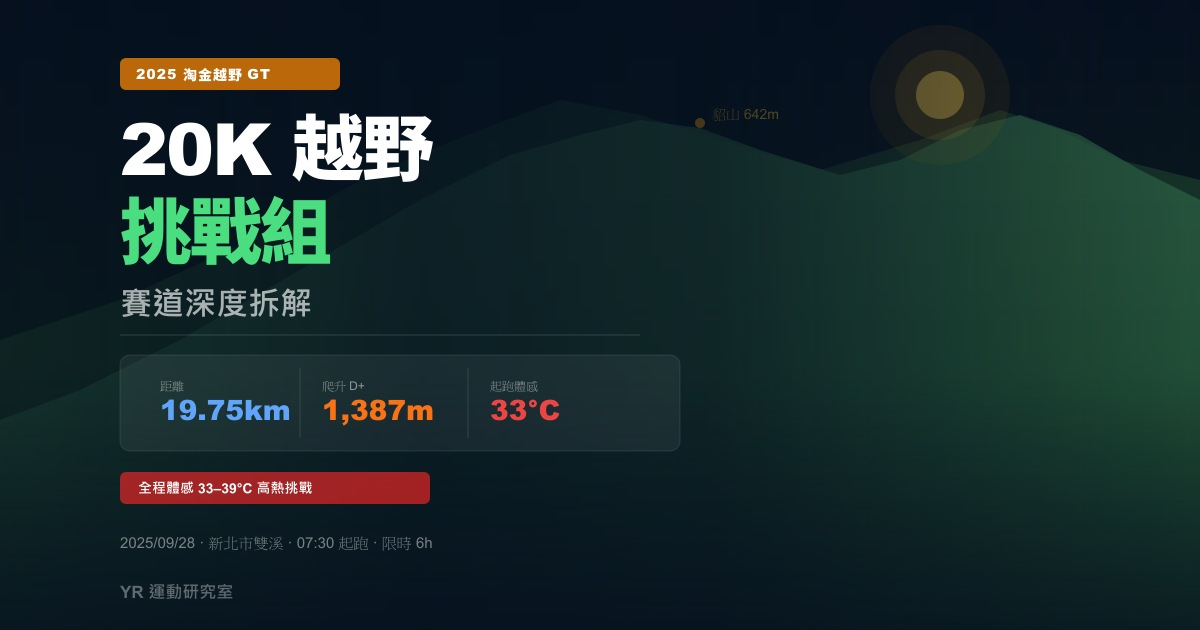
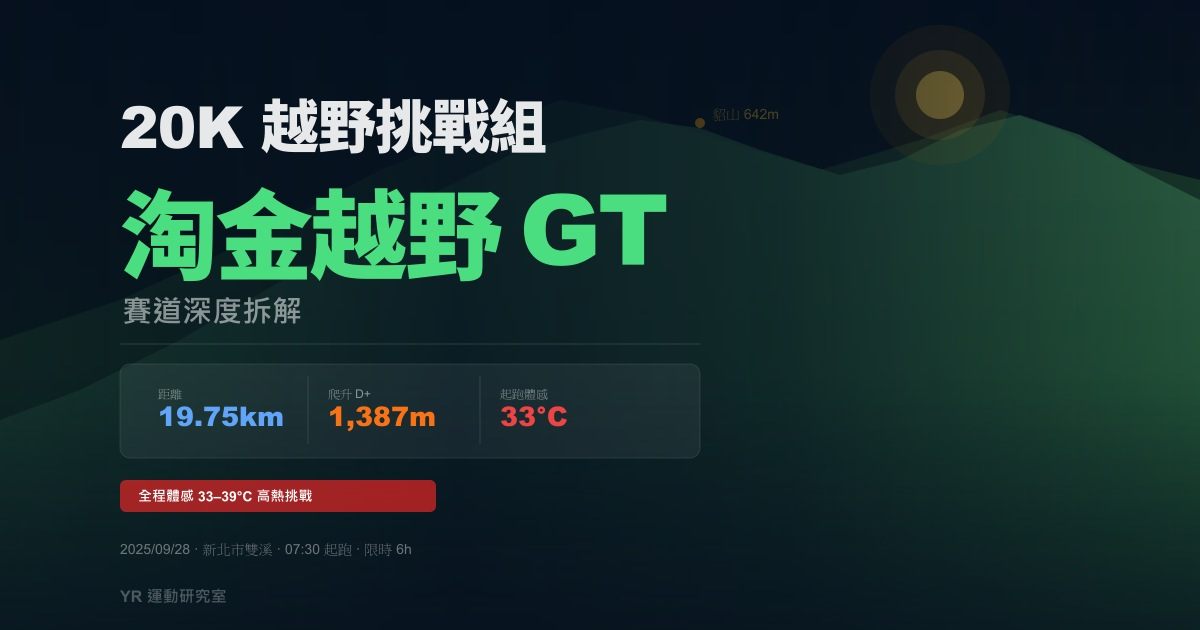
fix: OG 圖文字層次改版 + 儀表板單位移至標籤
- OG 圖：上方組別（58px白字），下方賽事名（98px強調色），漸層遮罩消除切線
- 兩篇文章儀表板：單位統一移至標籤後方（如「總里程（km）」），數值欄位不再顯示單位

diff --git a/scripts/gen-og.js b/scripts/gen-og.js
@@ -1,0 +1,126 @@
+const sharp = require('sharp');
+const path  = require('path');
+const root  = process.cwd();
+
+/* ─── zhaocha ─── */
+const svgZhaocha = `<svg xmlns='http://www.w3.org/2000/svg' width='1200' height='630' viewBox='0 0 1200 630'>
+  <defs>
+    <linearGradient id='sky' x1='0' y1='0' x2='0' y2='1'>
+      <stop offset='0%'  stop-color='#0a1a2e'/>
+      <stop offset='100%' stop-color='#0d2a1a'/>
+    </linearGradient>
+    <linearGradient id='ov' x1='0' y1='0' x2='1' y2='0'>
+      <stop offset='0%'   stop-color='#071522' stop-opacity='0.5'/>
+      <stop offset='38%'  stop-color='#071522' stop-opacity='0.82'/>
+      <stop offset='65%'  stop-color='#071522' stop-opacity='0.65'/>
+      <stop offset='100%' stop-color='#071522' stop-opacity='0.15'/>
+    </linearGradient>
+    <linearGradient id='bf' x1='0' y1='0' x2='0' y2='1'>
+      <stop offset='55%' stop-color='#0a1a2e' stop-opacity='0'/>
+      <stop offset='100%' stop-color='#0a1a2e' stop-opacity='0.65'/>
+    </linearGradient>
+    <linearGradient id='r1' x1='0' y1='1' x2='0' y2='0'>
+      <stop offset='0%'  stop-color='#16412a'/>
+      <stop offset='100%' stop-color='#3d7a52' stop-opacity='0.65'/>
+    </linearGradient>
+    <linearGradient id='r2' x1='0' y1='1' x2='0' y2='0'>
+      <stop offset='0%'  stop-color='#0a2018'/>
+      <stop offset='100%' stop-color='#254d34' stop-opacity='0.45'/>
+    </linearGradient>
+  </defs>
+  <rect width='1200' height='630' fill='url(#sky)'/>
+  <polygon points='0,630 0,370 150,330 300,290 450,260 580,240 700,245 820,250 950,240 1080,255 1200,270 1200,630' fill='url(#r2)'/>
+  <polygon points='0,630 0,450 100,420 230,380 360,340 490,305 600,285 700,278 800,285 920,295 1040,280 1140,295 1200,310 1200,630' fill='url(#r1)'/>
+  <circle cx='820' cy='110' r='65' fill='rgba(255,200,80,0.08)'/>
+  <circle cx='820' cy='110' r='40' fill='rgba(255,215,100,0.14)'/>
+  <circle cx='820' cy='110' r='20' fill='rgba(255,230,120,0.55)'/>
+  <rect width='1200' height='630' fill='url(#ov)'/>
+  <rect width='1200' height='630' fill='url(#bf)'/>
+
+  <!-- 上：組別 -->
+  <text x='120' y='145' font-family='Arial Black,Arial,sans-serif' font-size='58' font-weight='900' fill='rgba(255,255,255,0.90)' letter-spacing='-1'>12K 採茶組</text>
+  <!-- 下：賽事名稱 -->
+  <text x='120' y='268' font-family='Arial Black,Arial,sans-serif' font-size='98' font-weight='900' fill='#38bdf8' letter-spacing='-3'>找茶越野</text>
+  <text x='122' y='318' font-family='Arial Black,Arial,sans-serif' font-size='30' font-weight='700' fill='rgba(255,255,255,0.55)'>賽道深度拆解</text>
+  <line x1='120' y1='340' x2='640' y2='340' stroke='rgba(255,255,255,0.14)' stroke-width='1'/>
+
+  <rect x='120' y='360' width='560' height='94' rx='10' fill='rgba(255,255,255,0.06)' stroke='rgba(255,255,255,0.10)' stroke-width='1'/>
+  <text x='158' y='394' font-family='Arial,sans-serif' font-size='12' fill='rgba(255,255,255,0.5)'>距離</text>
+  <text x='158' y='422' font-family='Arial Black,Arial,sans-serif' font-size='27' font-weight='900' fill='#60a5fa'>12.23km</text>
+  <line x1='300' y1='372' x2='300' y2='440' stroke='rgba(255,255,255,0.12)' stroke-width='1'/>
+  <text x='320' y='394' font-family='Arial,sans-serif' font-size='12' fill='rgba(255,255,255,0.5)'>爬升 D+</text>
+  <text x='320' y='422' font-family='Arial Black,Arial,sans-serif' font-size='27' font-weight='900' fill='#f97316'>527m</text>
+  <line x1='455' y1='372' x2='455' y2='440' stroke='rgba(255,255,255,0.12)' stroke-width='1'/>
+  <text x='474' y='394' font-family='Arial,sans-serif' font-size='12' fill='rgba(255,255,255,0.5)'>最高海拔</text>
+  <text x='474' y='422' font-family='Arial Black,Arial,sans-serif' font-size='27' font-weight='900' fill='#4ade80'>589m</text>
+
+  <rect x='120' y='476' width='270' height='32' rx='6' fill='rgba(22,163,74,0.68)'/>
+  <text x='138' y='497' font-family='Arial,sans-serif' font-size='14' font-weight='700' fill='white'>GPX × 地形 × 氣象完整分析</text>
+  <text x='120' y='552' font-family='Arial,sans-serif' font-size='14' fill='rgba(255,255,255,0.40)'>2026  ·  新北市坪林  ·  08:00 起跑  ·  限時 5h</text>
+  <text x='120' y='600' font-family='Arial,sans-serif' font-size='16' font-weight='700' fill='rgba(255,255,255,0.30)'>YR 運動研究室</text>
+</svg>`;
+
+/* ─── taojin ─── */
+const svgTaojin = `<svg xmlns='http://www.w3.org/2000/svg' width='1200' height='630' viewBox='0 0 1200 630'>
+  <defs>
+    <linearGradient id='sky' x1='0' y1='0' x2='0' y2='1'>
+      <stop offset='0%' stop-color='#060f1e'/>
+      <stop offset='100%' stop-color='#112a1a'/>
+    </linearGradient>
+    <linearGradient id='ov' x1='0' y1='0' x2='1' y2='0'>
+      <stop offset='0%'   stop-color='#05111f' stop-opacity='0.55'/>
+      <stop offset='38%'  stop-color='#05111f' stop-opacity='0.84'/>
+      <stop offset='65%'  stop-color='#05111f' stop-opacity='0.68'/>
+      <stop offset='100%' stop-color='#05111f' stop-opacity='0.18'/>
+    </linearGradient>
+    <linearGradient id='bf' x1='0' y1='0' x2='0' y2='1'>
+      <stop offset='60%' stop-color='#060f1e' stop-opacity='0'/>
+      <stop offset='100%' stop-color='#060f1e' stop-opacity='0.65'/>
+    </linearGradient>
+    <linearGradient id='r1' x1='0' y1='1' x2='0' y2='0'>
+      <stop offset='0%'  stop-color='#1a4a2e'/>
+      <stop offset='100%' stop-color='#3a7a50' stop-opacity='0.7'/>
+    </linearGradient>
+    <linearGradient id='r2' x1='0' y1='1' x2='0' y2='0'>
+      <stop offset='0%'  stop-color='#0d2a18'/>
+      <stop offset='100%' stop-color='#2a5a38' stop-opacity='0.5'/>
+    </linearGradient>
+  </defs>
+  <rect width='1200' height='630' fill='url(#sky)'/>
+  <polygon points='0,630 0,340 120,300 250,240 380,170 480,130 560,100 640,115 720,140 820,170 920,140 1000,110 1060,130 1120,160 1200,180 1200,630' fill='url(#r2)'/>
+  <polygon points='0,630 0,420 80,390 180,340 300,270 420,200 510,155 580,135 640,120 700,128 760,150 840,175 900,160 960,130 1020,115 1080,135 1140,170 1200,200 1200,630' fill='url(#r1)'/>
+  <circle cx='940' cy='95' r='70' fill='rgba(255,160,0,0.10)'/>
+  <circle cx='940' cy='95' r='45' fill='rgba(255,185,50,0.18)'/>
+  <circle cx='940' cy='95' r='24' fill='rgba(255,210,80,0.60)'/>
+  <circle cx='700' cy='123' r='5' fill='#f59e0b'/>
+  <text x='712' y='119' font-family='Arial,sans-serif' font-size='14' fill='#fbbf24' opacity='0.9'>貂山 642m</text>
+  <rect width='1200' height='630' fill='url(#ov)'/>
+  <rect width='1200' height='630' fill='url(#bf)'/>
+
+  <!-- 上：組別 -->
+  <text x='120' y='148' font-family='Arial Black,Arial,sans-serif' font-size='58' font-weight='900' fill='rgba(255,255,255,0.90)' letter-spacing='-1'>20K 越野挑戰組</text>
+  <!-- 下：賽事名稱 -->
+  <text x='120' y='272' font-family='Arial Black,Arial,sans-serif' font-size='98' font-weight='900' fill='#4ade80' letter-spacing='-3'>淘金越野 GT</text>
+  <text x='122' y='322' font-family='Arial Black,Arial,sans-serif' font-size='30' font-weight='700' fill='rgba(255,255,255,0.52)'>賽道深度拆解</text>
+  <line x1='120' y1='344' x2='700' y2='344' stroke='rgba(255,255,255,0.14)' stroke-width='1'/>
+
+  <rect x='120' y='364' width='580' height='94' rx='10' fill='rgba(255,255,255,0.06)' stroke='rgba(255,255,255,0.10)' stroke-width='1'/>
+  <text x='158' y='398' font-family='Arial,sans-serif' font-size='12' fill='rgba(255,255,255,0.5)'>距離</text>
+  <text x='158' y='426' font-family='Arial Black,Arial,sans-serif' font-size='27' font-weight='900' fill='#60a5fa'>19.75km</text>
+  <line x1='308' y1='376' x2='308' y2='444' stroke='rgba(255,255,255,0.12)' stroke-width='1'/>
+  <text x='328' y='398' font-family='Arial,sans-serif' font-size='12' fill='rgba(255,255,255,0.5)'>爬升 D+</text>
+  <text x='328' y='426' font-family='Arial Black,Arial,sans-serif' font-size='27' font-weight='900' fill='#f97316'>1,387m</text>
+  <line x1='480' y1='376' x2='480' y2='444' stroke='rgba(255,255,255,0.12)' stroke-width='1'/>
+  <text x='500' y='398' font-family='Arial,sans-serif' font-size='12' fill='rgba(255,255,255,0.5)'>起跑體感</text>
+  <text x='500' y='426' font-family='Arial Black,Arial,sans-serif' font-size='27' font-weight='900' fill='#ef4444'>33°C</text>
+
+  <rect x='120' y='480' width='316' height='32' rx='6' fill='rgba(220,38,38,0.72)'/>
+  <text x='138' y='501' font-family='Arial,sans-serif' font-size='14' font-weight='700' fill='white'>全程體感 33–39°C 高熱挑戰</text>
+  <text x='120' y='554' font-family='Arial,sans-serif' font-size='14' fill='rgba(255,255,255,0.40)'>2025/09/28  ·  新北市雙溪  ·  07:30 起跑  ·  限時 6h</text>
+  <text x='120' y='602' font-family='Arial,sans-serif' font-size='16' font-weight='700' fill='rgba(255,255,255,0.28)'>YR 運動研究室</text>
+</svg>`;
+
+Promise.all([
+  sharp(Buffer.from(svgZhaocha)).jpeg({quality:93}).toFile(path.join(root,'assets','og-zhaocha-12k.jpg')),
+  sharp(Buffer.from(svgTaojin)).jpeg({quality:93}).toFile(path.join(root,'assets','og-taojin-trail-20k.jpg')),
+]).then(()=>console.log('✅ 兩張 OG 圖重製完成')).catch(e=>console.error(e));

diff --git a/posts/zhaocha-trail-12k/index.html b/posts/zhaocha-trail-12k/index.html
@@ -336,27 +336,27 @@
 
         <div class="stat-grid">
           <div class="stat-card accent-blue">
-            <div class="label">總里程</div>
-            <div class="value">12.23<span class="unit">km</span></div>
+            <div class="label">總里程（km）</div>
+            <div class="value">12.23</div>
           </div>
           <div class="stat-card accent-amber">
-            <div class="label">總爬升 D+</div>
-            <div class="value">527<span class="unit">m</span></div>
+            <div class="label">總爬升 D+（m）</div>
+            <div class="value">527</div>
           </div>
           <div class="stat-card">
-            <div class="label">總下降 D−</div>
-            <div class="value">513<span class="unit">m</span></div>
+            <div class="label">總下降 D−（m）</div>
+            <div class="value">513</div>
           </div>
           <div class="stat-card accent-green">
-            <div class="label">最高海拔</div>
-            <div class="value">589<span class="unit">m</span></div>
+            <div class="label">最高海拔（m）</div>
+            <div class="value">589</div>
           </div>
           <div class="stat-card">
-            <div class="label">最低海拔</div>
-            <div class="value">172<span class="unit">m</span></div>
+            <div class="label">最低海拔（m）</div>
+            <div class="value">172</div>
           </div>
           <div class="stat-card accent-red">
-            <div class="label">垂直爬升比 m/km</div>
+            <div class="label">垂直爬升比（m/km）</div>
             <div class="value">43.1</div>
           </div>
           <div class="stat-card accent-blue">
@@ -488,16 +488,16 @@
 
         <div class="stat-grid">
           <div class="stat-card">
-            <div class="label">平均坡度</div>
-            <div class="value">+0.18<span class="unit deg">°</span></div>
+            <div class="label">平均坡度（°）</div>
+            <div class="value">+0.18</div>
           </div>
           <div class="stat-card accent-red">
-            <div class="label">坡度標準差</div>
-            <div class="value">±11.14<span class="unit deg">°</span></div>
+            <div class="label">坡度標準差（°）</div>
+            <div class="value">±11.14</div>
           </div>
           <div class="stat-card accent-amber">
             <div class="label">最震盪 1 km 區間</div>
-            <div class="value">6.9–7.9<span class="unit">km</span></div>
+            <div class="value">6.9–7.9 km</div>
           </div>
         </div>
 

diff --git a/posts/taojin-trail-20k/index.html b/posts/taojin-trail-20k/index.html
@@ -370,27 +370,27 @@
 
         <div class="stat-grid">
           <div class="stat-card accent-blue">
-            <div class="label">總里程</div>
-            <div class="value">19.75<span class="unit"> km</span></div>
+            <div class="label">總里程（km）</div>
+            <div class="value">19.75</div>
           </div>
           <div class="stat-card accent-orange">
-            <div class="label">爬升 D+</div>
-            <div class="value">1,387<span class="unit"> m</span></div>
+            <div class="label">爬升 D+（m）</div>
+            <div class="value">1,387</div>
           </div>
           <div class="stat-card">
-            <div class="label">下降 D−</div>
-            <div class="value">1,387<span class="unit"> m</span></div>
+            <div class="label">下降 D−（m）</div>
+            <div class="value">1,387</div>
           </div>
           <div class="stat-card accent-green">
-            <div class="label">最高海拔</div>
-            <div class="value">642<span class="unit"> m</span></div>
+            <div class="label">最高海拔（m）</div>
+            <div class="value">642</div>
           </div>
           <div class="stat-card">
-            <div class="label">最低海拔</div>
-            <div class="value">53<span class="unit"> m</span></div>
+            <div class="label">最低海拔（m）</div>
+            <div class="value">53</div>
           </div>
           <div class="stat-card accent-red">
-            <div class="label">垂直爬升 m/km</div>
+            <div class="label">垂直爬升（m/km）</div>
             <div class="value">70.2</div>
           </div>
           <div class="stat-card">
